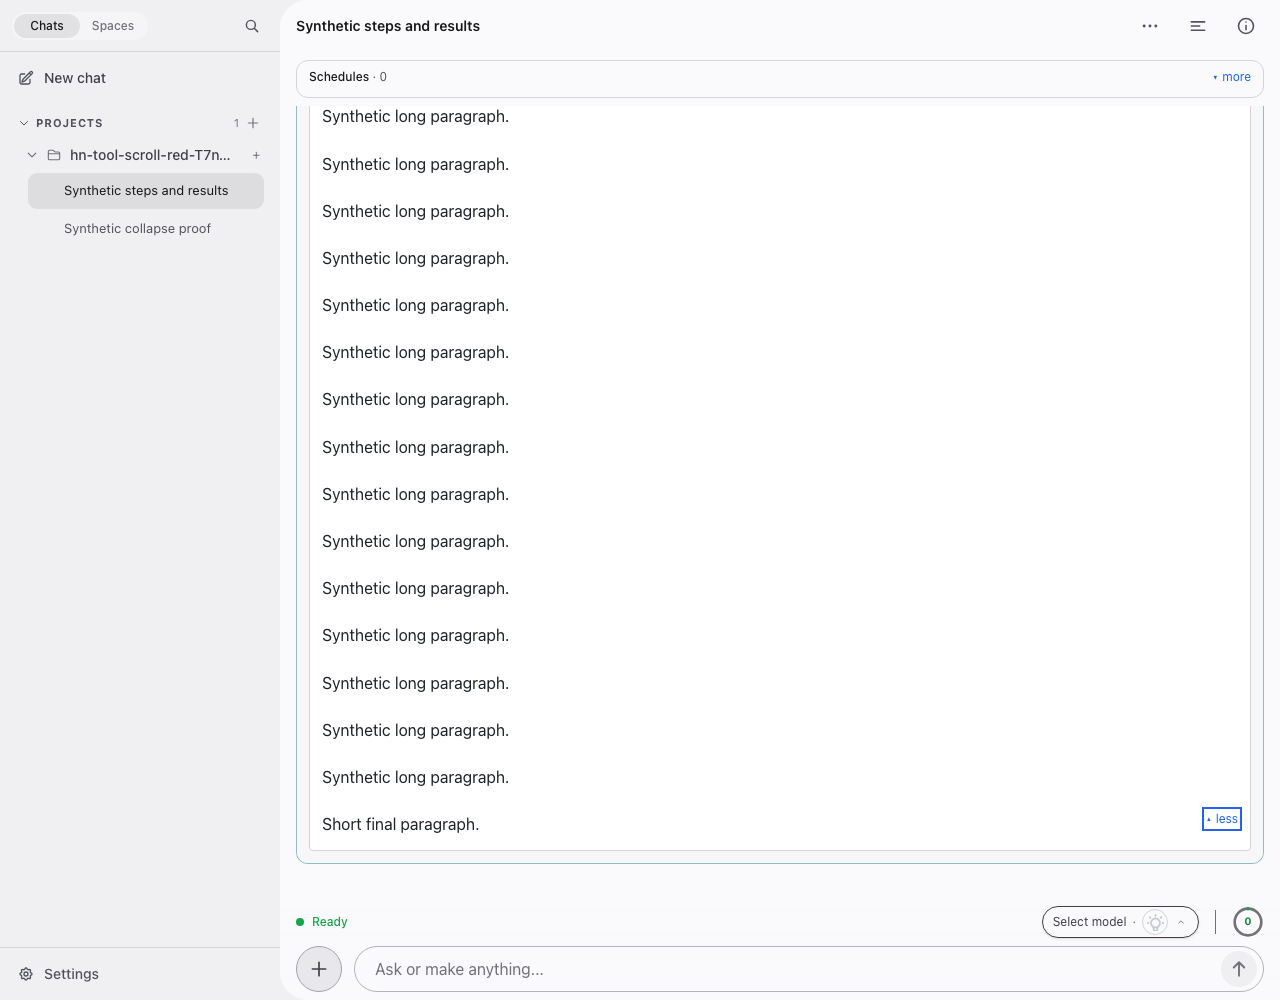
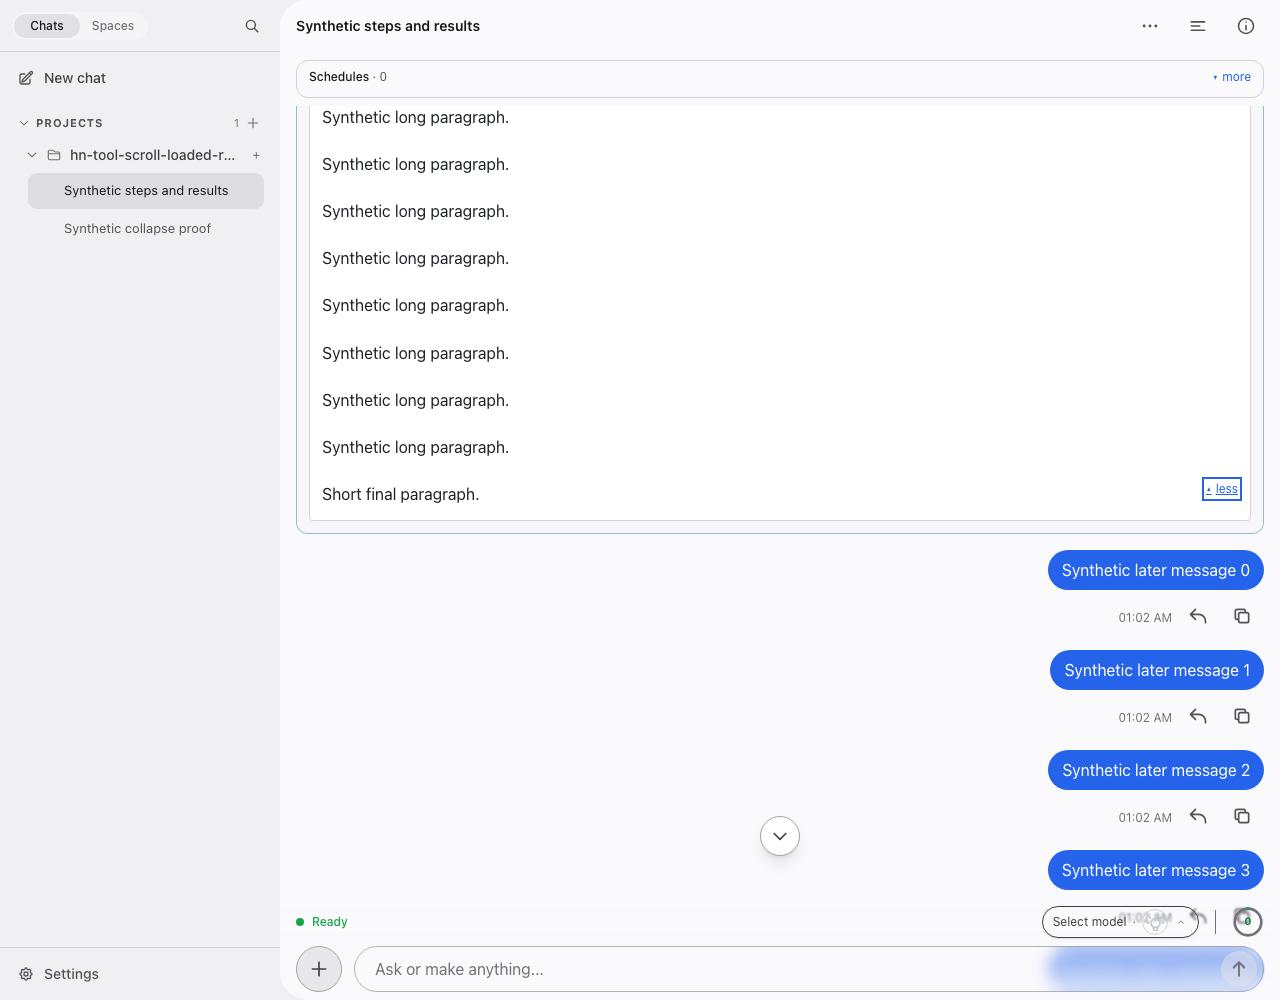
test(web): isolate loaded-output focus from bottom follow

diff --git a/.claude/skills/verify/sdk-tool-disclosure-seed.ts b/.claude/skills/verify/sdk-tool-disclosure-seed.ts
@@ -18,7 +18,7 @@ try {
     else assert(messages.saveSDKMessage(worker, message));
   };
   if (long) {
-    save({ type: 'assistant', message: { role: 'assistant', content: [{ type: 'tool_use', id: 'synthetic-long-read', name: 'Read', input: { file_path: 'long-synthetic.txt' } }] } });
+    save({ type: 'assistant', message: { role: 'assistant', content: [{ type: 'tool_use', id: 'synthetic-long-read', name: 'Bash', input: { command: 'synthetic-long-output' } }] } });
     save({ type: 'user', message: { role: 'user', content: [{ type: 'tool_result', tool_use_id: 'synthetic-long-read', content: 'Synthetic long result line.\n'.repeat(200) }] } });
   }
   save({ type: 'assistant', message: { role: 'assistant', content: [{ type: 'tool_use', id: 'synthetic-agent', name: 'Agent', input: { subagent_type: 'Explore', description: 'Synthetic exploration', prompt: 'Find synthetic evidence' } }] } });
@@ -26,5 +26,6 @@ try {
   save({ type: 'user', parent_tool_use_id: 'synthetic-agent', message: { role: 'user', content: [{ type: 'tool_result', tool_use_id: 'synthetic-nested-read', content: 'Nested synthetic evidence.\nShort nested ending.' }] } });
   save({ type: 'tool_progress', parent_tool_use_id: 'synthetic-agent', tool_use_id: 'synthetic-nested-read', tool_name: 'Read', elapsed_time_seconds: 3 });
   save({ type: 'user', message: { role: 'user', content: [{ type: 'tool_result', tool_use_id: 'synthetic-agent', content: 'Synthetic subagent final evidence.\n\n' + (long ? 'Synthetic long paragraph.\n\n'.repeat(100) : '') + 'Short final paragraph.' }] } });
+  if (long) for (let i = 0; i < 20; i++) save({ type: 'user', message: { role: 'user', content: `Synthetic later message ${i}` } });
   writeFileSync(`${run}/evidence/sdk-tool-seed.json`, JSON.stringify({ worker, synthetic: true }, null, 2));
 } finally { db.close(); }
